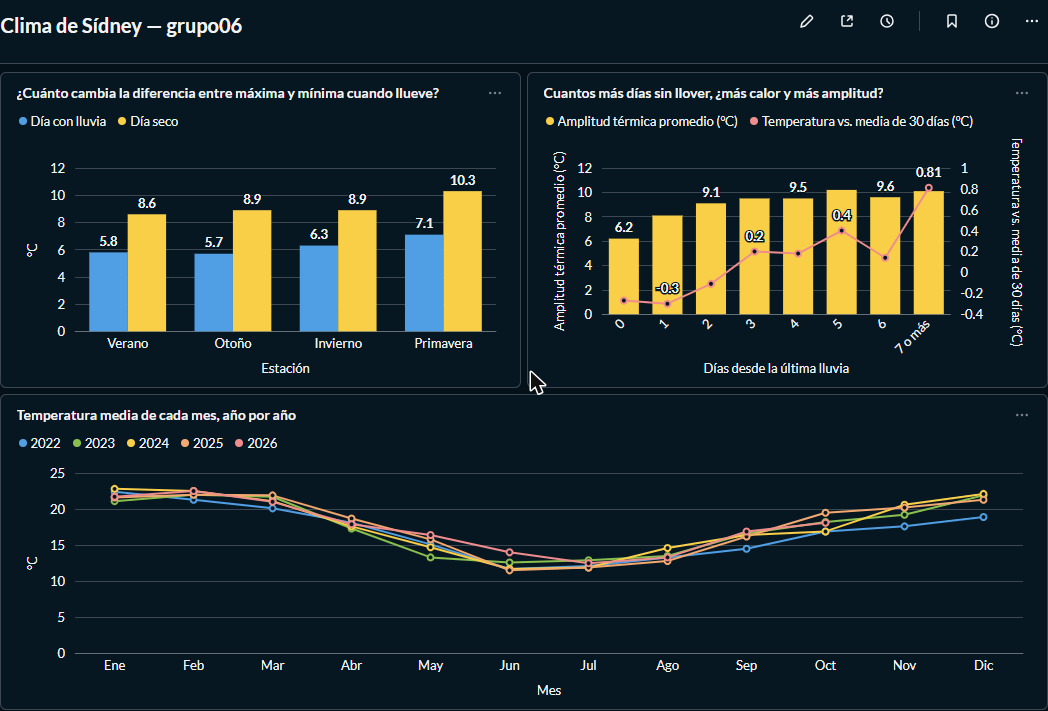
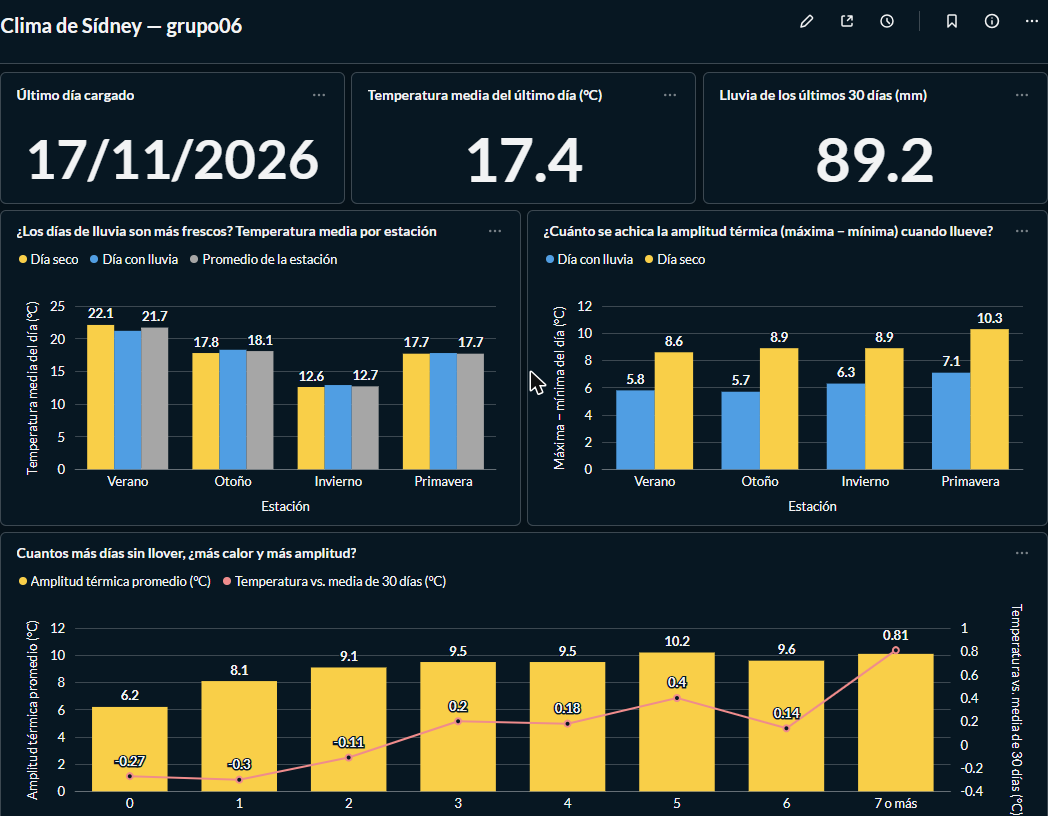
Docs: tablero final (12 gráficos, solo datos propios), lluvia_mm en governance y E4, 36 tests
Claude-Session: https://claude.ai/code/session_011bp94sahfTdV2tRXbzS6dH

diff --git a/dags/pipeline_grupo06.py b/dags/pipeline_grupo06.py
@@ -6,7 +6,7 @@ DAG del proyecto integrador — grupo06 · Clima de Sídney (Open-Meteo).
   * preparar_entorno : venv propio con deltalake + dbt (el Airflow compartido no los trae).
   * extraer_bronze   : python -m scripts.ingesta  (API -> bronze Delta, incremental).
   * dbt_run          : dbt seed + dbt run         (bronze -> staging/silver -> marts/gold).
-  * dbt_test         : dbt test                   (34 pruebas de calidad).
+  * dbt_test         : dbt test                   (36 pruebas de calidad).
   * publicar_gold    : python -m scripts.publicar_gold (gold DuckDB -> PostgreSQL).
 La DAG solo ORQUESTA: toda la lógica vive en scripts/ y en dbt/.
 

diff --git a/docs/tablero_metabase.md b/docs/tablero_metabase.md
@@ -2,50 +2,95 @@
 
 **Dónde:** https://metabase.nexoacademia.org → colección **Grupo06 · Clima de Sídney** → panel *Clima de Sídney — grupo06*.
 **Datos:** base `warehouse`, schema `grupo06`, tablas `fct_clima_mensual` y `feat_clima_diario` (gold publicada por el DAG).
+**Solo datos propios:** todo lo que se ve sale de Open-Meteo a través de nuestro pipeline; no se carga nada de afuera.
 
-Metabase **no se versiona**: este archivo (preguntas, SQL y lectura de cada gráfico) y las capturas son lo que viaja con el
-repositorio para poder rehacerlo.
+Metabase **no se versiona**: este archivo (pregunta, SQL y lectura de cada gráfico) y las capturas son lo que viaja con
+el repositorio para poder rehacerlo. Cada gráfico es una *pregunta* guardada en la colección; el panel las ordena.
 
 ![Tablero, parte 1](capturas/metabase_tablero_1.png)
 ![Tablero, parte 2](capturas/metabase_tablero_2.png)
+![Tablero, parte 3](capturas/metabase_tablero_3.png)
+![Tablero, parte 4](capturas/metabase_tablero_4.png)
 
 ## La pregunta que ordena el tablero
 
 **¿Cómo afecta la lluvia a la temperatura en Sídney?** Y, como contexto: ¿este año viene más cálido o más lluvioso que
 los anteriores?
 
-**Respuesta corta (datos 2022-01-01 → 2026-11-16):** la lluvia casi no mueve la temperatura *media* del día, pero **achica
-unos 3 °C la diferencia entre la máxima y la mínima** (los días nublados no se calientan tanto de día ni se enfrían tanto
-de noche). En verano, además, los días de lluvia son ~1 °C más frescos. A medida que pasan días sin llover, la amplitud
-crece (de 6,2 °C a ~10 °C) y la temperatura queda por encima de su media de 30 días.
+**Respuesta corta (datos 2022-01-01 → ayer):**
+- La lluvia **casi no cambia la temperatura media** del día (en verano los días de lluvia son ~1 °C más frescos; en el
+  resto del año la diferencia es de 0,5 °C o menos).
+- Lo que sí cambia es la **amplitud térmica**: un día de lluvia tiene ~3 °C menos de diferencia entre máxima y mínima
+  (las nubes frenan el calentamiento de día y el enfriamiento de noche).
+- Cuantos más días pasan sin llover, más crece la amplitud (de 6,2 °C a ~10 °C) y más se calienta el día respecto de su
+  media de 30 días.
+- En lo que va del año, 2026 es el más cálido de la serie (comparando todos los años en el mismo tramo 1/1 → ayer).
 
-**Qué decisión apoya:** quien planifica en Sídney actividades sensibles a la temperatura (eventos al aire libre, riego,
-demanda de climatización) puede esperar que una racha seca traiga días más extremos (más calor al mediodía, más frío a la
-madrugada) y que un día de lluvia sea más parejo. Y sabe si el año en curso viene por encima o por debajo de lo normal.
+**Qué decisión apoya:** quien planifica en Sídney algo sensible a la temperatura (eventos al aire libre, riego,
+climatización) puede esperar días más extremos tras una racha seca y días más parejos con lluvia, y sabe si el año en
+curso viene por encima o por debajo de lo normal.
 
-## Los seis gráficos
+## Los gráficos
 
-| # | Título en Metabase | Pregunta que responde | Tabla |
+| # | Título en Metabase | Pregunta que responde | Se actualiza |
 |---|---|---|---|
-| 1 | ¿Cuánto cambia la diferencia entre máxima y mínima cuando llueve? | En cada estación, ¿los días con lluvia tienen menos amplitud térmica que los secos? | `feat_clima_diario` |
-| 2 | Cuantos más días sin llover, ¿más calor y más amplitud? | ¿La amplitud y la temperatura relativa crecen con los días transcurridos desde la última lluvia? | `feat_clima_diario` |
-| 3 | Temperatura media de cada mes, año por año | ¿Cada mes de este año está por encima o por debajo del mismo mes de años anteriores? | `fct_clima_mensual` |
-| 4 | ¿Este año viene más cálido? (anomalía, ene → último mes cerrado) | ¿Cuánto se apartó cada año de lo normal, comparando el mismo tramo de meses? | `fct_clima_mensual` |
-| 5 | Lluvia acumulada por año (ene → último mes cerrado) | ¿Este año llovió más o menos que los anteriores en el mismo período? | `fct_clima_mensual` |
-| 6 | Lluvia acumulada de los últimos 30 días | ¿Cómo viene la lluvia reciente (últimos 6 meses)? | `feat_clima_diario` |
+| 1–3 | Último día cargado · Temperatura media del último día · Lluvia de los últimos 30 días | ¿Hasta qué día hay datos y cómo fue ese día? | cada corrida |
+| 4 | ¿Los días de lluvia son más frescos? Temperatura media por estación | ¿Cambia la temperatura media en días con lluvia vs. secos? | cada corrida |
+| 5 | ¿Cuánto se achica la amplitud térmica (máxima − mínima) cuando llueve? | ¿Cambia la diferencia entre máxima y mínima? | cada corrida |
+| 6 | Cuantos más días sin llover, ¿más calor y más amplitud? | ¿Las rachas secas traen días más extremos? | cada corrida |
+| 7 | Temperatura media de cada mes, año por año (mes en curso: parcial) | ¿Cada mes de este año está arriba o abajo de los anteriores? | cada corrida |
+| 8 | ¿Este año viene más cálido? (1/1 → último día cargado, vs. 2022–2025) | ¿Cuánto se aparta cada año de lo normal, en el mismo tramo de días? | cada corrida |
+| 9 | Lluvia acumulada por año (1/1 → último día cargado) | ¿Este año llovió más o menos, en el mismo tramo de días? | cada corrida |
+| 10 | Lluvia acumulada desde el 1 de enero, año por año | ¿Todos los años llueve en la misma época? | cada corrida |
+| 11 | Temperatura de cada mes vs. su promedio 2022–2025 | ¿Qué meses fueron más cálidos o más fríos que lo habitual? | al cerrar cada mes |
+| 12 | Lluvia de cada mes vs. su promedio 2022–2025 | ¿Qué meses fueron más lluviosos o más secos que lo habitual? | al cerrar cada mes |
 
 Notas de lectura:
-- **Día con lluvia** = `dias_desde_ultima_lluvia = 0` (llovió ≥ 1 mm ese día, umbral de la definición de dbt).
-- **Amplitud térmica** = máxima − mínima del día.
-- **Anomalía** = temperatura media del mes − promedio de ese mismo mes en 2022-2025 (definida en `fct_clima_mensual`).
-- Los gráficos 4 y 5 comparan **el mismo tramo de meses** en todos los años (de enero al último mes cerrado del año en
-  curso), para no comparar un año completo con uno a medias. El tramo se actualiza solo cuando se cierra cada mes.
-- Cinco años alcanzan para describir, **no para hablar de cambio climático** (se necesitan ~30 años). 2022 fue un año
-  La Niña muy lluvioso, y 2026 viene de otra API (Historical Forecast en lugar de ERA5), lo que puede introducir un sesgo.
+- **Día con lluvia** = `dias_desde_ultima_lluvia = 0`: ese día cayó ≥ 1 mm.
+- **Amplitud térmica** = máxima − mínima del día. No es una temperatura: por eso en verano (días nublados y húmedos)
+  puede ser menor que en invierno.
+- **"Lo normal" / "su promedio"** = el promedio de ese mismo mes calendario en 2022–2025. En los gráficos 11 y 12 el 0 es
+  ese promedio, que cambia de mes a mes (enero ~22 °C, julio ~12 °C): por eso se muestra la diferencia y no la
+  temperatura absoluta.
+- Los gráficos 8 y 9 comparan **el mismo tramo de días** en todos los años (del 1/1 al último día cargado). Ningún año
+  incluye el verano de diciembre, así que 2026 compite en igualdad de condiciones.
+- **Límites:** cinco años alcanzan para describir, no para hablar de cambio climático (~30 años). 2026 viene de otra API
+  (Historical Forecast en lugar de ERA5), lo que puede introducir un sesgo. Ver la interpretación ENSO más abajo.
+
+### Interpretación: El Niño / La Niña (contexto externo, no está en los datos)
+Los datos muestran un 2022 frío y muy lluvioso y un 2026 cálido. Eso coincide con las fases que declaró la Oficina de
+Meteorología de Australia (BoM): La Niña de 2021-22 a principios de 2023 (en el este de Australia suele traer más lluvia y
+días más frescos) y El Niño desde junio de 2026 (suele traer menos lluvia y más calor). Es una **coincidencia
+consistente**, no una prueba: con cinco años no se puede atribuir causa. La fase ENSO no se cargó al pipeline a propósito,
+para que el tablero muestre solo datos que trae nuestra ingesta.
 
 ## SQL de cada gráfico (para rehacerlo: *+ Nuevo → Consulta SQL → warehouse*)
 
-**1 · Barras agrupadas** (X = Estación, serie = Condición)
+**1–3 · Números**
+```sql
+select to_char(max(fecha), 'DD/MM/YYYY') as "Último día cargado" from grupo06.feat_clima_diario;
+select temp_media_c as "Temperatura media (°C)" from grupo06.feat_clima_diario order by fecha desc limit 1;
+select lluvia_acumulada_30d_mm as "Lluvia 30 días (mm)" from grupo06.feat_clima_diario order by fecha desc limit 1;
+```
+
+**4 · Barras agrupadas**
+```sql
+with d as (
+  select case when extract(month from fecha) in (12,1,2) then 1 when extract(month from fecha) in (3,4,5) then 2
+              when extract(month from fecha) in (6,7,8) then 3 else 4 end as orden,
+         dias_desde_ultima_lluvia = 0 as llovio,
+         temp_media_c
+  from grupo06.feat_clima_diario
+  where dias_desde_ultima_lluvia is not null
+)
+select (array['Verano','Otoño','Invierno','Primavera'])[orden] as "Estación",
+       round(avg(temp_media_c) filter (where not llovio)::numeric, 1) as "Día seco",
+       round(avg(temp_media_c) filter (where llovio)::numeric, 1) as "Día con lluvia",
+       round(avg(temp_media_c)::numeric, 1) as "Promedio de la estación"
+from d group by orden order by orden
+```
+
+**5 · Barras agrupadas** (X = Estación, serie = Condición)
 ```sql
 with d as (
   select case when extract(month from fecha) in (12,1,2) then 1 when extract(month from fecha) in (3,4,5) then 2
@@ -55,73 +100,88 @@ with d as (
   from grupo06.feat_clima_diario
   where dias_desde_ultima_lluvia is not null
 )
-select (array['Verano','Otoño','Invierno','Primavera'])[orden] as "Estación",
-       condicion as "Condición",
+select (array['Verano','Otoño','Invierno','Primavera'])[orden] as "Estación", condicion as "Condición",
        round(avg(amplitud_termica_c)::numeric, 1) as "Amplitud térmica promedio (°C)"
-from d
-group by orden, condicion
-order by orden, condicion
+from d group by orden, condicion order by orden, condicion
 ```
 
-**2 · Combo** (barras = amplitud, línea en eje derecho = temperatura vs. media de 30 días)
+**6 · Combo** (barras = amplitud; línea en eje derecho = temperatura vs. media de 30 días)
 ```sql
 select case when dias_desde_ultima_lluvia >= 7 then '7 o más' else dias_desde_ultima_lluvia::text end as "Días desde la última lluvia",
        round(avg(amplitud_termica_c)::numeric, 1) as "Amplitud térmica promedio (°C)",
-       round(avg(desvio_vs_media_30d_c)::numeric, 2) as "Temperatura vs. media de 30 días (°C)",
-       count(*) as "Días"
+       round(avg(desvio_vs_media_30d_c)::numeric, 2) as "Temperatura vs. media de 30 días (°C)"
 from grupo06.feat_clima_diario
 where dias_desde_ultima_lluvia is not null
 group by 1, least(dias_desde_ultima_lluvia, 7)
 order by least(dias_desde_ultima_lluvia, 7)
 ```
 
-**3 · Líneas** (X = Mes, serie = Año)
+**7 · Líneas** (X = Mes, serie = Año)
 ```sql
 select (array['Ene','Feb','Mar','Abr','May','Jun','Jul','Ago','Sep','Oct','Nov','Dic'])[mes_numero] as "Mes",
        anio::text as "Año", temperatura_media_c as "Temperatura media (°C)"
 from grupo06.fct_clima_mensual
-where mes_completo
+where mes_completo or mes = (select max(mes) from grupo06.fct_clima_mensual)
 order by mes_numero, anio
 ```
 
-**4 · Barras apiladas** (dos series para colorear por signo: cálido rojo, frío azul)
+**8 · Barras apiladas** (dos series para colorear por signo)
 ```sql
-with a as (
-  select anio, round(avg(anomalia_temperatura_c)::numeric, 2) v
-  from grupo06.fct_clima_mensual
-  where mes_completo
-    and mes_numero <= (select max(mes_numero) from grupo06.fct_clima_mensual
-                       where mes_completo and anio = (select max(anio) from grupo06.fct_clima_mensual))
-  group by anio
+with u as (select max(fecha) as ultimo from grupo06.feat_clima_diario),
+por_anio as (
+  select extract(year from f.fecha)::int as anio, avg(f.temp_media_c) as temp
+  from grupo06.feat_clima_diario f, u
+  where to_char(f.fecha, 'MMDD') <= to_char(u.ultimo, 'MMDD')
+  group by 1
+),
+ref as (select avg(temp) as temp_ref from por_anio where anio between 2022 and 2025)
+select p.anio::text as "Año",
+       case when p.temp - r.temp_ref > 0 then round((p.temp - r.temp_ref)::numeric, 2) end as "Más cálido (°C)",
+       case when p.temp - r.temp_ref <= 0 then round((p.temp - r.temp_ref)::numeric, 2) end as "Más frío (°C)"
+from por_anio p, ref r order by p.anio
+```
+
+**9 · Barras**
+```sql
+with u as (select max(fecha) as ultimo from grupo06.feat_clima_diario)
+select extract(year from f.fecha)::int::text as "Año", round(sum(f.lluvia_mm)::numeric, 0) as "Lluvia (mm)"
+from grupo06.feat_clima_diario f, u
+where to_char(f.fecha, 'MMDD') <= to_char(u.ultimo, 'MMDD')
+group by 1 order by 1
+```
+
+**10 · Líneas** (X = Mes, serie = Año)
+```sql
+with m as (
+  select extract(year from fecha)::int as anio, extract(month from fecha)::int as mes_numero, sum(lluvia_mm) as lluvia
+  from grupo06.feat_clima_diario group by 1, 2
 )
-select anio::text as "Año",
-       case when v > 0 then v end as "Más cálido (°C)",
-       case when v <= 0 then v end as "Más frío (°C)"
-from a order by anio
+select (array['Ene','Feb','Mar','Abr','May','Jun','Jul','Ago','Sep','Oct','Nov','Dic'])[mes_numero] as "Mes",
+       anio::text as "Año",
+       round(sum(lluvia) over (partition by anio order by mes_numero)::numeric, 0) as "Lluvia acumulada (mm)"
+from m order by mes_numero, anio
 ```
 
-**5 · Barras**
+**11 · Barras apiladas por signo**
 ```sql
-select anio::text as "Año", round(sum(lluvia_total_mm)::numeric, 0) as "Lluvia (mm)"
-from grupo06.fct_clima_mensual
-where mes_completo
-  and mes_numero <= (select max(mes_numero) from grupo06.fct_clima_mensual
-                     where mes_completo and anio = (select max(anio) from grupo06.fct_clima_mensual))
-group by anio order by anio
+select mes as "Mes",
+       case when anomalia_temperatura_c > 0 then anomalia_temperatura_c end as "Más cálido que su promedio (°C)",
+       case when anomalia_temperatura_c <= 0 then anomalia_temperatura_c end as "Más frío que su promedio (°C)"
+from grupo06.fct_clima_mensual where mes_completo order by mes
 ```
 
-**6 · Área**
+**12 · Barras apiladas por signo**
 ```sql
-select fecha as "Fecha", lluvia_acumulada_30d_mm as "Lluvia últimos 30 días (mm)"
-from grupo06.feat_clima_diario
-where fecha > (select max(fecha) from grupo06.feat_clima_diario) - interval '180 days'
-order by fecha
+select mes as "Mes",
+       case when lluvia_total_mm >= lluvia_referencia_mm then round((lluvia_total_mm - lluvia_referencia_mm)::numeric, 0) end as "Más lluvia que su promedio (mm)",
+       case when lluvia_total_mm < lluvia_referencia_mm then round((lluvia_total_mm - lluvia_referencia_mm)::numeric, 0) end as "Menos lluvia que su promedio (mm)"
+from grupo06.fct_clima_mensual where mes_completo order by mes
 ```
 
 ## Por qué carga rápido
-Todas las consultas leen tablas **ya calculadas por dbt**: 59 filas mensuales y 1.781 diarias con los features
-(amplitud, días desde la última lluvia, desvío vs. media de 30 días) ya resueltos. Metabase solo agrupa unas pocas filas;
-no recalcula nada que deba hacer el pipeline.
+Todas las consultas leen tablas **ya calculadas por dbt**: ~60 filas mensuales y ~1.800 diarias, con los features
+(amplitud, días desde la última lluvia, desvío vs. media de 30 días, lluvia del día) ya resueltos. Metabase solo agrupa
+pocas filas; no recalcula nada que deba hacer el pipeline.
 
 ## Metabase y Grafana: cada uno en su rol
 Metabase responde preguntas **sobre el clima** (negocio). La salud del **pipeline** (si corrió, cuánto tardó, si el dato

diff --git a/docs/E4_serving.md b/docs/E4_serving.md
@@ -30,10 +30,10 @@ from grupo06.fct_clima_mensual order by mes desc limit 12;
 
 ## 2. Tablero
 
-En https://metabase.nexoacademia.org (colección **Grupo06 · Clima de Sídney**), seis visualizaciones ordenadas por una
-pregunta: **¿cómo afecta la lluvia a la temperatura en Sídney?** Respuesta: casi no mueve la media, pero achica ~3 °C la
-amplitud térmica; cuantos más días sin llover, más amplitud y más calor relativo. Como contexto, se compara cada año con
-los anteriores (anomalía y lluvia acumulada en el mismo tramo de meses).
+En https://metabase.nexoacademia.org (colección **Grupo06 · Clima de Sídney**), doce visualizaciones ordenadas por una
+pregunta: **¿cómo afecta la lluvia a la temperatura en Sídney?** Respuesta: casi no mueve la temperatura media, pero
+achica ~3 °C la amplitud térmica; cuantos más días sin llover, más amplitud y más calor relativo. Como contexto, se
+compara cada año con los anteriores en el mismo tramo de días (1/1 → ayer), así el tablero cambia en cada corrida.
 Preguntas, SQL, lectura de cada gráfico y la decisión que apoya: [`tablero_metabase.md`](tablero_metabase.md). Capturas:
 `docs/capturas/metabase_tablero_*.png` (Metabase no se versiona: eso es lo que viaja con el repo para rehacerlo).
 
@@ -43,6 +43,8 @@ La observabilidad del pipeline (si corrió, cuánto tardó, si el dato está al 
 ## 3. Features
 
 `feat_clima_diario` es la tabla de features: un modelo dbt **versionado, con tests, definido una sola vez**.
+Además de los features trae dos valores base del día, sin ventana: `temp_media_c` y `lluvia_mm` (este último se agregó
+el 17/11 para que el tablero compare la lluvia entre años en el mismo tramo de días).
 
 | Feature | Definición |
 |---|---|

diff --git a/docs/governance.md b/docs/governance.md
@@ -80,6 +80,7 @@ Cada fila es lo que se sabe **al cierre del día `fecha`**; ninguna columna usa 
 |---|---|---|---|
 | `fecha` | fecha | Día local de Sídney | 2026-03-15 |
 | `temp_media_c` | decimal | Temperatura media del día, °C | 22.1 |
+| `lluvia_mm` | decimal | Lluvia caída ese día, en mm (valor base, sin ventana). Sirve para comparar años en el mismo tramo de días | 4.2 |
 | `temp_media_movil_7d_c` | decimal | Promedio de la temperatura media de los últimos 7 días (incluye el día) | 21.6 |
 | `temp_media_movil_30d_c` | decimal | Ídem, últimos 30 días | 22.8 |
 | `lluvia_acumulada_7d_mm` | decimal | Lluvia total de los últimos 7 días, mm | 18.4 |
@@ -114,7 +115,7 @@ un gestor de secretos (Connections/Variables de Airflow o un vault).
 
 ## 5 · Calidad y garantías
 
-**Qué se verifica automáticamente** (34 tests de dbt en cada corrida del DAG; si alguno falla, la gold **no se publica**):
+**Qué se verifica automáticamente** (36 tests de dbt en cada corrida del DAG; si alguno falla, la gold **no se publica**):
 - Un registro por día (`unique`, `not_null`) y **serie continua sin huecos**.
 - Temperaturas entre −5 y 50 °C, mínima ≤ media ≤ máxima, lluvia entre 0 y 400 mm/día, dirección del viento 0-359.
 - Valores permitidos en `fuente`, `estacion`, `categoria`; todo `codigo_wmo` existe en el catálogo.

diff --git a/docs/E2_dbt.md b/docs/E2_dbt.md
@@ -6,7 +6,7 @@ Proyecto: [`dbt/`](../dbt) · Notebook: [`notebooks/NB04_semana08_dbt_silver_gol
 
 ```bash
 cd ~/work/dags/dbt            # en local: cd dbt
-dbt build --profiles-dir .    # seed + 4 modelos + 34 tests, en orden de dependencias
+dbt build --profiles-dir .    # seed + 4 modelos + 36 tests, en orden de dependencias
 dbt docs generate --profiles-dir .   # catálogo + linaje en target/index.html
 ```
 Requiere bronze cargado (E1) y el `.env` (o las variables de entorno del Jupyter).
@@ -49,7 +49,7 @@ Un registro por mes (58 meses frente a 1.754 días de silver). Columnas en lengu
 
 ## Tests
 
-34 tests, todos en verde (`dbt build`). Genéricos donde corresponde: `unique` y `not_null` en las claves (`fecha`, `mes`,
+36 tests, todos en verde (`dbt build`). Genéricos donde corresponde: `unique` y `not_null` en las claves (`fecha`, `mes`,
 `codigo_wmo`), `accepted_values` en `fuente`, `estacion` y `categoria`, `relationships` de `codigo_wmo` contra el catálogo.
 
 **Tests propios del dominio**, con lo que detecta cada uno:

diff --git a/README.md b/README.md
@@ -89,7 +89,7 @@ cd .. && python -m scripts.publicar_gold # gold -> PostgreSQL
 | Parte | Estado |
 |---|---|
 | Ingesta (E1) | ✅ bronze completo 2022-01-01 → ayer; la 2.ª corrida del día no pide nada a la API |
-| dbt (E2) | ✅ `dbt build`: 1 seed, 4 modelos, 34 tests en verde sobre la tabla Delta real |
+| dbt (E2) | ✅ `dbt build`: 1 seed, 4 modelos, 36 tests en verde sobre la tabla Delta real |
 | Airflow (E3) | ✅ `pipeline_grupo06` corre solo todos los días a las 06:00 (ART); todas las corridas del 26/10 al 16/11 en verde y sin reintentos; backfill por rango y por fecha lógica probado |
 | CI (E3) | ✅ 3 jobs en verde; `main` protegida; rama `demo/ci-rojo` para mostrar el CI bloqueando |
 | Gold en PostgreSQL (E4) | ✅ `grupo06.fct_clima_mensual` y `grupo06.feat_clima_diario` (1.781 días, sin huecos ni duplicados); publicación repetible |
